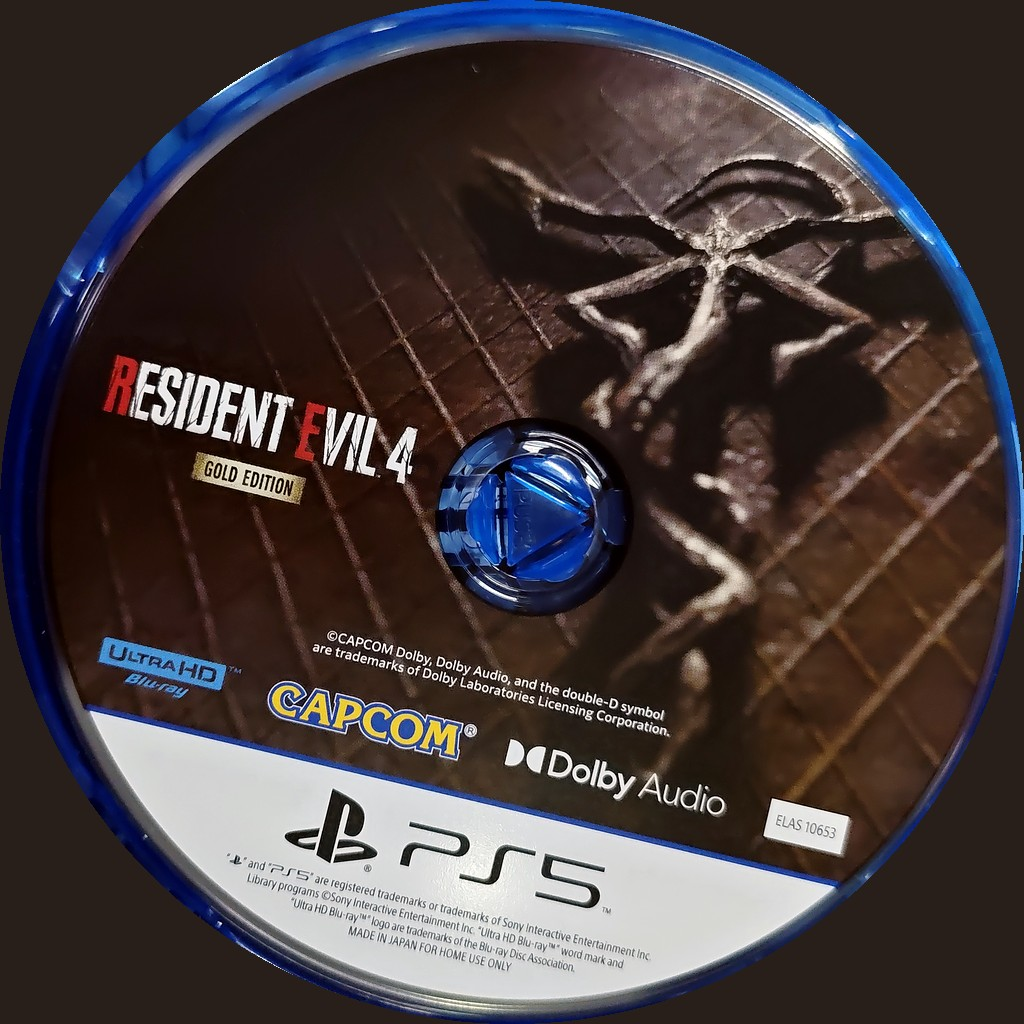
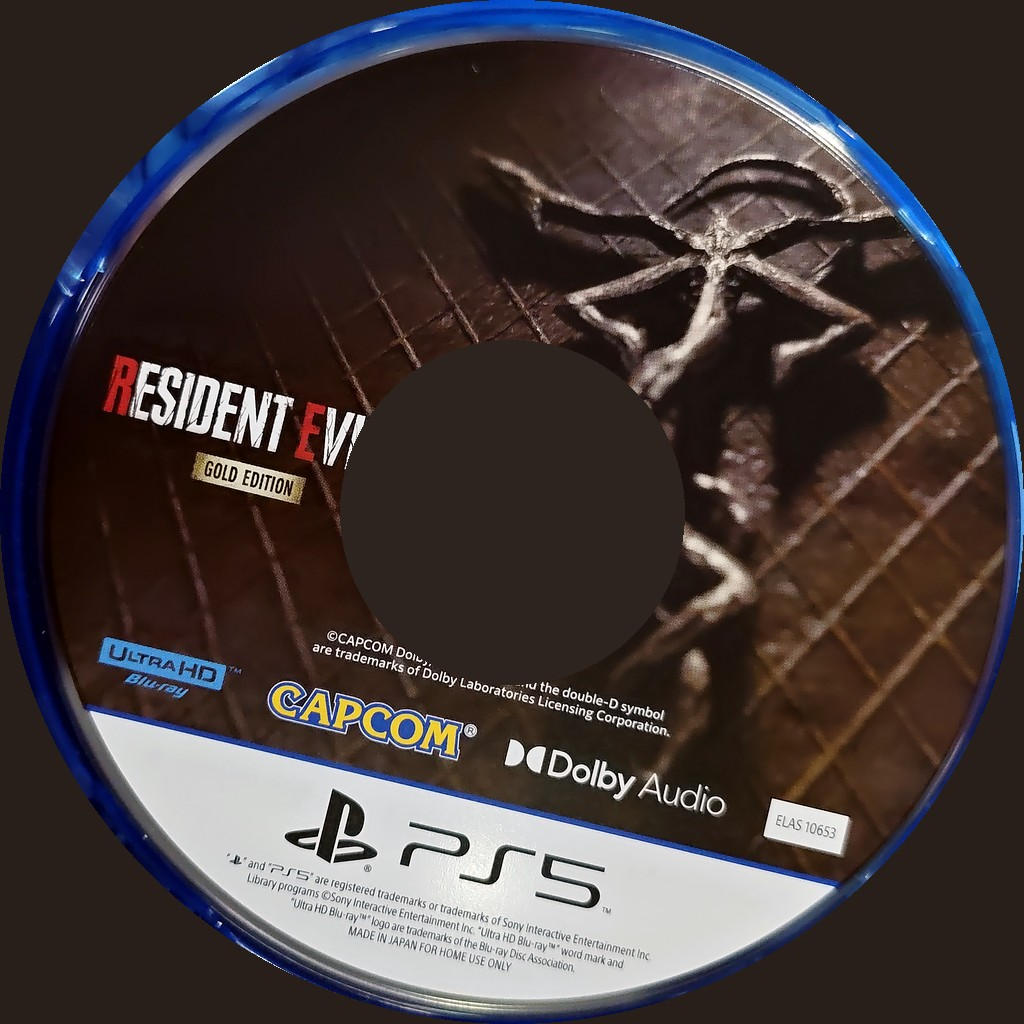
box demo v9: clean RE4 back/spine rebuild, diffraction disc, env presets

Changed region(s): [[0.3125, 0.3125, 0.6875, 0.6875], [0.3438, 0.5312, 0.375, 0.625]]

diff --git a/src/demo/box.js b/src/demo/box.js
@@ -54,8 +54,33 @@ const rim = new THREE.DirectionalLight(0xffffff, 0.95); rim.position.set(-1.5, 3
 const discLights = [new THREE.DirectionalLight(0xffffff, 0.5), new THREE.DirectionalLight(0xbfd8ff, 0.45), new THREE.DirectionalLight(0xffe2c4, 0.35)]
 discLights[0].position.set(1.5, 2.5, 2.5); discLights[1].position.set(-2, 1.5, -2); discLights[2].position.set(2, 0.6, -1)
 discLights.forEach((l) => { l.visible = false; scene.add(l) })
-const ground = new THREE.Mesh(new THREE.PlaneGeometry(14, 14), new THREE.ShadowMaterial({ opacity: 0.18 }))
+const shadowGround = new THREE.ShadowMaterial({ opacity: 0.18 })
+function woodTex() {
+  const c = document.createElement('canvas'); c.width = 1024; c.height = 1024; const g = c.getContext('2d')
+  g.fillStyle = '#c9a77f'; g.fillRect(0, 0, 1024, 1024)
+  for (let i = 0; i < 260; i++) { const y = Math.random() * 1024, a = 0.03 + Math.random() * 0.07; g.strokeStyle = `rgba(${90 + Math.random() * 40},${60 + Math.random() * 20},30,${a})`; g.lineWidth = 1 + Math.random() * 4
+    g.beginPath(); g.moveTo(0, y); for (let x = 0; x <= 1024; x += 64) g.lineTo(x, y + Math.sin(x * 0.006 + i) * 6); g.stroke() }
+  const t = new THREE.CanvasTexture(c); t.colorSpace = THREE.SRGBColorSpace; t.wrapS = t.wrapT = THREE.RepeatWrapping; t.repeat.set(3, 3); t.anisotropy = 8; return t
+}
+let _wood = null
+const deskMat = () => new THREE.MeshPhysicalMaterial({ map: (_wood ||= woodTex()), roughness: 0.55, clearcoat: 0.3, clearcoatRoughness: 0.35 })
+const linenMat = new THREE.MeshStandardMaterial({ color: 0xeceae4, roughness: 0.95 })
+const ENVS = {
+  studio: { css: 'linear-gradient(180deg,#f3f6f8 0%,#e6ebee 60%,#d9dee2 100%)', ground: () => shadowGround, env: 1.0, key: 0xfff6ec, fill: 0xe4eeff, label: ['影棚', 'Studio'] },
+  desk: { css: 'radial-gradient(120% 90% at 50% 20%,#f6efe6 0%,#e7dccd 70%,#d8c9b4 100%)', ground: deskMat, env: 0.85, key: 0xffe9cf, fill: 0xd9e6ff, label: ['桌面', 'Desk'] },
+  linen: { css: 'linear-gradient(180deg,#f7f4ee,#efece5)', ground: () => linenMat, env: 0.95, key: 0xffffff, fill: 0xdcecff, label: ['布面', 'Linen'] },
+}
+const ENV_KEYS = Object.keys(ENVS)
+let envName = qs.get('env') || localStorage.getItem('box-env') || 'studio'
+if (!ENVS[envName]) envName = 'studio'
+const ground = new THREE.Mesh(new THREE.PlaneGeometry(14, 14), shadowGround)
 ground.rotation.x = -Math.PI / 2; ground.receiveShadow = true; scene.add(ground)
+let envBase = 0.9
+function applyEnv() {
+  const e = ENVS[envName]; document.body.style.background = e.css; ground.material = e.ground(); envBase = e.env
+  key.color.setHex(e.key); fill.color.setHex(e.fill); try { localStorage.setItem('box-env', envName) } catch {}
+  const b = document.getElementById('bEnv'); if (b) b.textContent = (lang === 'en' ? 'Scene: ' : '环境：') + e.label[lang === 'en' ? 1 : 0]
+}
 function blobTex() {
   const c = document.createElement('canvas'); c.width = c.height = 256; const g = c.getContext('2d')
   const gr = g.createRadialGradient(128, 128, 0, 128, 128, 128)
@@ -159,7 +184,7 @@ function loadImg(n) { const i = new Image(); const p = new Promise((res) => { i.
 // RE4 Gold Edition (HK/Asia, ELAS 10653): front art = official PS Store key art; spine/back/inner/disc = user's own photos (warped + colour-corrected)
 const [img, p0] = loadImg('re4_front_art.jpg')
 const RE = {}; const ps = [p0]
-for (const n of ['spine', 'back', 'inner_cover', 'inner_tray', 'disc']) { const [i, p] = loadImg(`re4_${n}.jpg`); RE[n] = i; ps.push(p) }
+for (const n of ['inner_cover', 'inner_tray', 'disc', 'ss1', 'ss2', 'ss3']) { const [i, p] = loadImg(`re4_${n}.jpg`); RE[n] = i; ps.push(p) }
 const loaded = Promise.all(ps)
 function ctx(w, h) { const c = document.createElement('canvas'); c.width = w; c.height = h; return [c, c.getContext('2d')] }
 function tex(c) { const t = new THREE.CanvasTexture(c); t.colorSpace = THREE.SRGBColorSpace; t.anisotropy = renderer.capabilities.getMaxAnisotropy(); return t }
@@ -187,6 +212,94 @@ function ratingBox(g, x, y, s) {
   g.textAlign = 'left'
 }
 const FRONT_W = INS_W * PX, FRONT_H = INS_H * PX, SPINE_W = Math.round((D - 0.004) * PX)
+// ---- Clean rebuilds of the HK/Asia ELAS 10653 spine + back (content transcribed from the user's photos C/E) ----
+function ean13(g, code, x, y, mw, h) {
+  const L = ['0001101','0011001','0010011','0111101','0100011','0110001','0101111','0111011','0110111','0001011']
+  const G = L.map((p) => [...p].map((b) => (b === '0' ? '1' : '0')).reverse().join('')), R = L.map((p) => [...p].map((b) => (b === '0' ? '1' : '0')).join(''))
+  const P = ['LLLLLL','LLGLGG','LLGGLG','LLGGGL','LGLLGG','LGGLLG','LGGGLL','LGLGLG','LGLGGL','LGGLGL']
+  const d = [...code].map(Number); let bits = '101'
+  for (let i = 1; i <= 6; i++) bits += (P[d[0]][i - 1] === 'L' ? L : G)[d[i]]
+  bits += '01010'; for (let i = 7; i <= 12; i++) bits += R[d[i]]; bits += '101'
+  g.fillStyle = '#fff'; g.fillRect(x - 14 * mw, y - 8, (bits.length + 22) * mw, h + 40); g.fillStyle = '#000'
+  ;[...bits].forEach((b, i) => { if (b === '1') { const guard = i < 3 || (i > 44 && i < 50) || i > 91; g.fillRect(x + i * mw, y, mw, h + (guard ? 10 : 0)) } })
+  g.font = `${mw * 9}px "DejaVu Sans Mono", monospace`; g.textBaseline = 'top'
+  g.fillText(code[0], x - 10 * mw, y + h + 2); g.fillText(code.slice(1, 7), x + 5 * mw, y + h + 2); g.fillText(code.slice(7), x + 51 * mw, y + h + 2); g.textBaseline = 'alphabetic'
+}
+function capcomLogo(g, x, y, s, rot = 0) {
+  g.save(); g.translate(x, y); g.rotate(rot); g.font = `900 italic ${s}px "Arial Black", Impact, sans-serif`; g.textAlign = 'center'; g.textBaseline = 'middle'
+  g.lineWidth = s * 0.16; g.strokeStyle = '#1d4fa8'; g.strokeText('CAPCOM', 0, 0); g.fillStyle = '#ffc61a'; g.fillText('CAPCOM', 0, 0); g.restore()
+}
+function wrapText(g, text, x, y, w, lh) {
+  const words = text.split(' '); let line = ''
+  for (const wd of words) { const t = line ? line + ' ' + wd : wd; if (g.measureText(t).width > w && line) { g.fillText(line, x, y); y += lh; line = wd } else line = t }
+  if (line) g.fillText(line, x, y); return y + lh
+}
+function rr(g, x, y, w, h, r) { g.beginPath(); g.roundRect ? g.roundRect(x, y, w, h, r) : g.rect(x, y, w, h) }
+function re4Spine(c, g) {
+  const w = SPINE_W, h = FRONT_H
+  g.fillStyle = '#0d0c10'; g.fillRect(0, 0, w, h)
+  const gr = g.createLinearGradient(0, 0, 0, h); gr.addColorStop(0, 'rgba(70,40,30,.0)'); gr.addColorStop(0.6, 'rgba(90,30,20,.35)'); gr.addColorStop(1, 'rgba(20,10,10,0)'); g.fillStyle = gr; g.fillRect(0, 0, w, h)
+  // white PS5 band (same height as the front band) + blue rule
+  g.fillStyle = '#fff'; g.fillRect(0, 0, w, BANNER); g.fillStyle = '#0070d1'; g.fillRect(0, BANNER, w, 3)
+  g.save(); g.translate(w / 2, BANNER / 2); g.rotate(Math.PI / 2); g.textAlign = 'center'; ps5Logo(g, 0, 0, 34); g.restore()
+  // vertical title, reads top→bottom
+  g.save(); g.translate(w / 2, 170); g.rotate(Math.PI / 2); g.textBaseline = 'middle'
+  g.fillStyle = '#f1f1f1'; g.font = '900 54px "Arial Narrow", Impact, "DejaVu Sans Condensed", sans-serif'; g.fillText('BIOHAZARD', 0, 2)
+  let x = g.measureText('BIOHAZARD').width + 18
+  g.fillStyle = '#c4161c'; g.font = '900 60px Impact, "DejaVu Sans Condensed", sans-serif'; g.fillText('RE:4', x, 2); x += g.measureText('RE:4').width + 26
+  const gw = 222; const gg = g.createLinearGradient(0, -22, 0, 22); gg.addColorStop(0, '#f3dc94'); gg.addColorStop(1, '#a8823a')
+  g.fillStyle = gg; g.fillRect(x, -22, gw, 44); g.fillStyle = '#1a1206'; g.font = '800 26px "Arial Narrow", Arial, sans-serif'; g.fillText('GOLD EDITION', x + 14, 2)
+  g.restore()
+  capcomLogo(g, w / 2, h - 300, 24, Math.PI / 2)
+  g.fillStyle = '#e8e8e8'; g.font = '600 19px Arial'; g.textAlign = 'center'; g.fillText('ELAS', w / 2, h - 170); g.fillText('10653', w / 2, h - 148)
+  ratingBox(g, (w - 64) / 2, h - 120, 64); g.textAlign = 'left'
+  return c
+}
+function re4Back(c, g) {
+  const W2 = FRONT_W, H2 = FRONT_H, M = 50
+  g.fillStyle = '#0b0d14'; g.fillRect(0, 0, W2, H2)
+  const bgS = RE.ss3 && RE.ss3.width ? RE.ss3 : null
+  if (bgS) { g.globalAlpha = 0.28; g.drawImage(bgS, 0, BANNER, W2, 760); g.globalAlpha = 1 }
+  const vg = g.createLinearGradient(0, BANNER, 0, 880); vg.addColorStop(0, 'rgba(11,13,20,.55)'); vg.addColorStop(1, 'rgba(11,13,20,.95)'); g.fillStyle = vg; g.fillRect(0, BANNER, W2, 760)
+  banner(g, W2)
+  g.fillStyle = '#fff'; g.font = '700 23px "Times New Roman", serif'
+  let y = wrapText(g, 'Resident Evil 4 Gold Edition includes Resident Evil 4 and the Separate Ways DLC, where you play as Ada Wong and experience the events of Resident Evil 4 from her perspective. It also includes the Extra DLC Pack containing a variety of additional content.', M, BANNER + 48, W2 - 2 * M, 29)
+  const shots = [RE.ss1, RE.ss2, RE.ss3]; const sw = 300, sh = 169
+  shots.forEach((im, i) => { const sx = M + i * (sw + 16), sy = y + 6; if (im?.width) g.drawImage(im, sx, sy, sw, sh); g.strokeStyle = 'rgba(255,255,255,.55)'; g.lineWidth = 2; g.strokeRect(sx, sy, sw, sh) })
+  y += sh + 44
+  g.font = 'italic 600 21px "Times New Roman", serif'; g.fillStyle = '#e9e4da'
+  y = wrapText(g, '6 years have passed since the biological disaster in Raccoon City. Leon S. Kennedy is tasked with rescuing the US President\u2019s kidnapped daughter. Will he be able to overcome the madness that awaits him?', M, y, W2 / 2 - M, 26) + 10
+  let y2 = y - 26 * 5 - 10
+  g.font = '600 19px Arial'; g.fillStyle = '#f2efe8'
+  wrapText(g, 'Play as Ada Wong in this additional scenario, and experience the events of Resident Evil 4 from her perspective, filling in unanswered questions posed in the main story. With her mission to retrieve the Amber looming over her, which path will she choose?', W2 / 2 + 10, Math.max(y2, y - 140), W2 / 2 - M - 10, 24)
+  // Extra DLC Pack box
+  const by = 690; g.strokeStyle = '#fff'; g.lineWidth = 2; rr(g, M, by, W2 - 2 * M, 84, 14); g.stroke()
+  g.fillStyle = '#fff'; g.fillRect(M, by, 150, 84); g.fillStyle = '#111'; g.font = '800 24px Arial'; g.fillText('Extra DLC', M + 18, by + 36); g.fillText('Pack', M + 18, by + 64)
+  g.fillStyle = '#fff'; g.font = '17px Arial'
+  wrapText(g, 'Includes: Leon & Ashley costumes, Deluxe Weapons \u201cSentinel Nine\u201d and \u201cSkull Shaker\u201d, \u201cTreasure Map: Expansion\u201d, Leon Accessory and Soundtrack Swap.', M + 170, by + 32, W2 - 2 * M - 190, 22)
+  // feature icons row
+  const feats = ['1 Player', 'Vibration Function & Trigger Effect Supported', '60 GB Minimum', 'In-game Purchases']
+  feats.forEach((t, i) => { const fx = M + i * 236, fy = 800; g.fillStyle = '#fff'; rr(g, fx, fy, 222, 52, 8); g.fill(); g.fillStyle = '#111'; g.font = '700 15px Arial'; wrapText(g, t, fx + 12, fy + 22, 200, 17) })
+  g.fillStyle = '#ddd'; g.font = '15px Arial'; g.fillText('f  /CAPCOMasia     \u25b6  /capcomasia', W2 - 360, 880)
+  // white legal panel
+  const wy = 900; g.fillStyle = '#fff'; g.fillRect(0, wy, W2, H2 - wy)
+  g.fillStyle = '#222'; g.font = '13px Arial'
+  ;['\u00a9CAPCOM. Dolby, Dolby Audio, and the double-D symbol are trademarks of Dolby Laboratories Licensing Corporation.',
+    '\u201c\u2660\u201d, \u201cPlayStation\u201d, \u201cPS5\u201d, \u201cPS5 logo\u201d and \u201cDualSense\u201d are registered trademarks or trademarks of Sony Interactive Entertainment Inc.',
+    'This software is PlayStation\u00ae5 format software. \u6b64\u70baPlayStation\u00ae5\u683c\u5f0f\u8edf\u4ef6\u3002 Library programs \u00a9Sony Interactive Entertainment Inc.',
+    '\u201cBlu-ray Disc\u2122\u201d, \u201cBlu-ray\u2122\u201d and \u201cUltra HD Blu-ray\u2122\u201d are trademarks of the Blu-ray Disc Association.',
+    'Some services may require an account with PSN. Use of PSN is subject to the Terms of Service. For additional information about PSN, visit www.playstation.com/playstation-network',
+    '\u5c64\u8a9e\u8a00\uff1a\u7e41\u9ad4\u4e2d\u6587 / \u7c21\u9ad4\u4e2d\u6587 / English / \u65e5\u672c\u8a9e / \ud55c\uad6d\uc5b4     Audio: English / Japanese     1080p \u00b7 2160p']
+    .forEach((l, i) => { g.fillText(l, M, wy + 30 + i * 20) })
+  // logos
+  g.fillStyle = '#1b58b8'; rr(g, M, wy + 170, 130, 46, 6); g.fill(); g.fillStyle = '#fff'; g.font = '800 16px Arial'; g.fillText('ULTRA HD', M + 14, wy + 190); g.font = 'italic 13px Arial'; g.fillText('Blu-ray\u2122', M + 14, wy + 208)
+  g.fillStyle = '#111'; g.font = '800 22px Arial'; g.fillText('\u25ae\u25ae Dolby Audio', M + 150, wy + 202)
+  ratingBox(g, M + 340, wy + 160, 70)
+  ean13(g, '4897077991142', W2 - 330, wy + 165, 2.6, 92)
+  g.fillStyle = '#111'; g.fillRect(W2 - 360, H2 - 76, 310, 34); g.fillStyle = '#fff'; g.font = '800 17px Arial'; g.textAlign = 'center'; g.fillText('FOR HOME USE ONLY', W2 - 205, H2 - 53); g.textAlign = 'left'
+  g.fillStyle = '#555'; g.font = '12px Arial'; g.fillText('ELAS-10653   MADE IN JAPAN   Published by CAPCOM ASIA CO., LTD.', M, H2 - 30)
+  return c
+}
 function frontTex() {
   const [c, g] = ctx(FRONT_W, FRONT_H)
   drawCover(g, 0, BANNER + 4, FRONT_W, FRONT_H - BANNER - 4)
@@ -207,7 +320,7 @@ function frontTex() {
 }
 function spineTex() {
   const [c, g] = ctx(SPINE_W, FRONT_H)
-  if (RE.spine?.width) { g.drawImage(RE.spine, 0, 0, SPINE_W, FRONT_H); return c }
+  return re4Spine(c, g)
   const gr = g.createLinearGradient(0, 0, 0, FRONT_H); gr.addColorStop(0, '#1c1a1d'); gr.addColorStop(1, '#3a1013')
   g.fillStyle = gr; g.fillRect(0, 0, SPINE_W, FRONT_H)
   g.fillStyle = '#fff'; g.fillRect(0, 0, SPINE_W, BANNER + 40); g.fillStyle = '#0070d1'; g.fillRect(0, BANNER + 40, SPINE_W, 4)
@@ -225,7 +338,7 @@ function barcode(g, x, y, w, h) {
 }
 function backTex() {
   const [c, g] = ctx(FRONT_W, FRONT_H)
-  if (RE.back?.width) { g.drawImage(RE.back, 0, 0, FRONT_W, FRONT_H); return c }
+  return re4Back(c, g)
   g.fillStyle = '#121014'; g.fillRect(0, 0, FRONT_W, FRONT_H)
   drawCover(g, 0, BANNER, FRONT_W, 520, 2.2, 0.5, 0.12)
   const fade = g.createLinearGradient(0, BANNER + 300, 0, BANNER + 520); fade.addColorStop(0, 'rgba(18,16,20,0)'); fade.addColorStop(1, '#121014')
@@ -264,7 +377,7 @@ function bookletCoverTex() {
   g.fillStyle = '#1a1218'; g.fillRect(0, 0, 512, 720)
   drawCover(g, 0, 0, 512, 420, 1.6, 0.5, 0.2)
   g.fillStyle = 'rgba(0,0,0,.35)'; g.fillRect(0, 360, 512, 80)
-  g.fillStyle = '#fff'; g.font = '700 36px "Noto Serif CJK SC",serif'; g.fillText('羊蹄山之魂', 28, 520)
+  g.fillStyle = '#fff'; g.font = '900 44px Impact, "DejaVu Sans Condensed", sans-serif'; g.fillText('BIOHAZARD RE:4', 28, 520)
   g.fillStyle = '#c9a76a'; g.font = '500 18px "Times New Roman",serif'; g.fillText('INSTRUCTION MANUAL', 30, 555)
   g.fillStyle = '#aaa'; g.font = '14px Arial'; g.fillText('PlayStation®5', 30, 680)
   return tex(c)
@@ -357,6 +470,14 @@ for (const zc of [CR / 2, D - CR / 2]) {
   const web = mesh(new THREE.BoxGeometry(T * 0.38, H - 0.004, CR), shellMat, spineG, false); web.visible = false
   web.position.set(-T * 0.19, 0, zc)
 }
+// rounded spine edges: the strip's long edges are radiused into the creases (photo D)
+for (const zc of [CR, D - CR]) {
+  const ed = mesh(new THREE.CylinderGeometry(T * 0.5, T * 0.5, H - 0.012, 16), shellMat, spineG, false)
+  ed.position.set(-T / 2, 0, zc)
+}
+// fine crease grooves visible on the outside of the spine
+const grooveMat = new THREE.MeshBasicMaterial({ color: 0x001a66, transparent: true, opacity: 0.35, depthWrite: false })
+for (const zc of [CR * 0.5, D - CR * 0.5]) { const gl = mesh(new THREE.BoxGeometry(0.0008, H - 0.02, 0.0012), grooveMat, spineG, false); gl.position.set(-T - 0.0004, 0, zc) }
 // mould gate dots on spine interior (two, upper/lower)
 for (const y of [0.24, -0.24]) {
   const dot = mesh(new THREE.CylinderGeometry(0.0085, 0.0085, 0.0016, 24), trayMat, spineG, false)
@@ -520,15 +641,29 @@ updateWrap()
 // Disc
 const R = 0.6, rH = 0.075, DT = 0.012
 const disc = new THREE.Group(); scene.add(disc) // world-space so browse mode is independent of case
-const dataMat = new THREE.MeshPhysicalMaterial({ color: 0xc4c8e4, metalness: 1, roughness: 0.16, envMapIntensity: 0.8, iridescence: 1, iridescenceIOR: 1.8, iridescenceThicknessRange: [250, 950], side: THREE.DoubleSide })
+const dataMat = new THREE.MeshPhysicalMaterial({ color: 0x7d7396, metalness: 1, roughness: 0.14, anisotropy: 0.9, envMapIntensity: 0.9, iridescence: 1, iridescenceIOR: 1.8, iridescenceThicknessRange: [250, 950], side: THREE.DoubleSide })
 const mirrorMat = new THREE.MeshPhysicalMaterial({ color: 0xe8eaf2, metalness: 1, roughness: 0.04, side: THREE.DoubleSide })
 const clearMat = new THREE.MeshPhysicalMaterial({ color: 0xdfe6f0, roughness: 0.06, transparent: true, opacity: 0.22, ior: 1.58, specularIntensity: 1, clearcoat: 1, side: THREE.DoubleSide, depthWrite: false })
-const labelMat = new THREE.MeshStandardMaterial({ roughness: 0.7, metalness: 0, envMapIntensity: 0.35 })
+const labelMat = new THREE.MeshPhysicalMaterial({ roughness: 0.62, metalness: 0, envMapIntensity: 0.4, sheen: 0.25, sheenRoughness: 0.5, clearcoat: 0.12, clearcoatRoughness: 0.6 })
 const discPick = []
 function discRing(r0, r1, mat, z, flip) {
   const m = mesh(new THREE.RingGeometry(r0, r1, 128, 1), mat, disc, false); m.position.z = z; if (flip) m.rotation.y = Math.PI; discPick.push(m); return m
 }
 discRing(0.23, R - 0.002, dataMat, 0, true)
+// Diffraction overlay: BD pits act like a circular grating → rainbow arcs whose hue shifts with view angle
+const diffMat = new THREE.ShaderMaterial({
+  transparent: true, depthWrite: false, blending: THREE.AdditiveBlending, side: THREE.DoubleSide,
+  uniforms: { uStr: { value: 0.75 } },
+  vertexShader: `varying vec3 vP; varying vec3 vV; void main(){ vP = position; vec4 wp = modelMatrix*vec4(position,1.); vec3 camO = (inverse(modelMatrix)*vec4(cameraPosition,1.)).xyz; vV = normalize(camO-position); gl_Position = projectionMatrix*viewMatrix*wp; }`,
+  fragmentShader: `uniform float uStr; varying vec3 vP; varying vec3 vV;
+    vec3 hue(float h){ return clamp(abs(mod(h*6.+vec3(0.,4.,2.),6.)-3.)-1.,0.,1.); }
+    void main(){ float r = length(vP.xy); vec2 t = normalize(vec2(-vP.y, vP.x)); vec3 L = normalize(vec3(0.5,0.8,0.6));
+      vec3 H = normalize(vV + L); float g = dot(t, H.xy); float band = abs(g);
+      float h = fract(g*2.6 + r*1.4);
+      float a = pow(smoothstep(0.0,0.5,band),1.6) * (0.82+0.18*sin(r*55.)) * uStr * (1.-smoothstep(0.585,0.6,r));
+      gl_FragColor = vec4(hue(h)*a, a); }`,
+})
+discRing(0.235, R - 0.004, diffMat, -0.0006, true)
 discRing(0.17, 0.23, mirrorMat, 0, true)
 discRing(rH, 0.17, clearMat, 0, true)
 const labelRing = discRing(0.17, R - 0.002, labelMat, DT, false)
@@ -537,6 +672,9 @@ discRing(rH, 0.17, clearMat, DT, false)
 const edgeO = mesh(new THREE.CylinderGeometry(R, R, DT, 128, 1, true), clearMat, disc); edgeO.rotation.x = Math.PI / 2; edgeO.position.z = DT / 2; discPick.push(edgeO)
 const edgeI = mesh(new THREE.CylinderGeometry(rH, rH, DT, 64, 1, true), clearMat, disc, false); edgeI.rotation.x = Math.PI / 2; edgeI.position.z = DT / 2
 mesh(new THREE.TorusGeometry(0.168, 0.0025, 8, 96), clearMat, disc, false).position.z = DT
+// clear stacking ring + clamping area on the data side
+mesh(new THREE.TorusGeometry(0.2, 0.0022, 8, 96), clearMat, disc, false).position.z = -0.0008
+mesh(new THREE.TorusGeometry(0.115, 0.0018, 8, 96), clearMat, disc, false).position.z = -0.0006
 const shadowDisc = mesh(new THREE.CircleGeometry(R, 64), new THREE.MeshBasicMaterial({ colorWrite: false, depthWrite: false }), disc); shadowDisc.position.z = DT / 2
 
 // Seat position: on hub, just above tray (in root/base local → world via root)
@@ -598,7 +736,7 @@ function syncUI() {
   q('sub').textContent = discFocus ? (lang === 'zh' ? '单独浏览光盘 · 可看正反面' : 'Disc focus · inspect both sides') : t.sub
   q('hint').textContent = discFocus ? t.hintBrowse : t.hint
   q('back').textContent = t.back
-  ui.lang.textContent = t.lang
+  ui.lang.textContent = t.lang; applyEnv()
   ui.bReset.textContent = t.reset
   ui.bOpen.textContent = openTarget ? t.close : t.open
   ui.bOpen.disabled = !!(outTarget || out > 0.02 || discFocus || hubPressTarget)
@@ -650,6 +788,7 @@ ui.bOpen.onclick = toggleOpen
 ui.bDisc.onclick = pressHubRelease
 ui.bBrowse.onclick = () => { if (discFocus) exitDiscFocus(); else enterDiscFocus() }
 ui.lang.onclick = () => { lang = lang === 'en' ? 'zh' : 'en'; try { localStorage.setItem('game-catalog-lang', lang) } catch {}; syncUI() }
+q('bEnv').onclick = () => { envName = ENV_KEYS[(ENV_KEYS.indexOf(envName) + 1) % ENV_KEYS.length]; applyEnv() }
 ui.bReset.onclick = () => { resetT = 1; userMoved = false }
 let flip = 0, flipT = 0
 ui.bFlip.onclick = () => { flipT = flipT ? 0 : 1 }
@@ -789,7 +928,7 @@ function tick() {
   // Dim case while browsing disc
   const dim = discFocus ? 0.35 : 1
   // (v7) shell opacity left as configured
-  scene.environmentIntensity = discFocus ? 0.75 : 0.9
+  scene.environmentIntensity = discFocus ? 0.75 : envBase
   key.intensity = discFocus ? 0.7 : 2.05
   root.traverse((o) => {
     if (o.isMesh && o.material && o.material.color && o.parent !== disc) {

diff --git a/src/demo/box.css b/src/demo/box.css
@@ -18,3 +18,4 @@ body.disc-focus .title{opacity:.35}
 .hint{position:fixed;left:0;right:0;bottom:calc(84px + env(safe-area-inset-bottom));text-align:center;font-size:12px;color:#8a9592;margin:0;pointer-events:none;z-index:2;padding:0 16px;transition:opacity .35s}
 body.disc-focus .hint{opacity:.9}
 .panel button#bFlip{background:#3d6a8f;color:#fff}
+#bEnv{border:0;background:rgba(255,255,255,.7);border-radius:999px;padding:7px 12px;font-size:13px;color:#2f6f63;cursor:pointer;margin-right:6px}

diff --git a/box-demo.html b/box-demo.html
@@ -10,7 +10,7 @@
 <canvas id="c"></canvas>
 <header class="top">
   <a id="back" href="./">← 返回目录</a>
-  <button id="lang" type="button">EN</button>
+  <span><button id="bEnv" type="button">环境：影棚</button> <button id="lang" type="button">EN</button></span>
 </header>
 <div class="title"><h1 id="h1">PS5 游戏盒</h1><p id="sub">Resident Evil 4 Gold Edition</p></div>
 <div class="panel">
